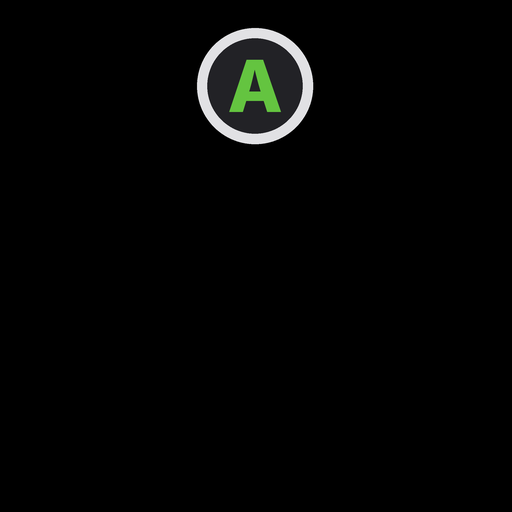
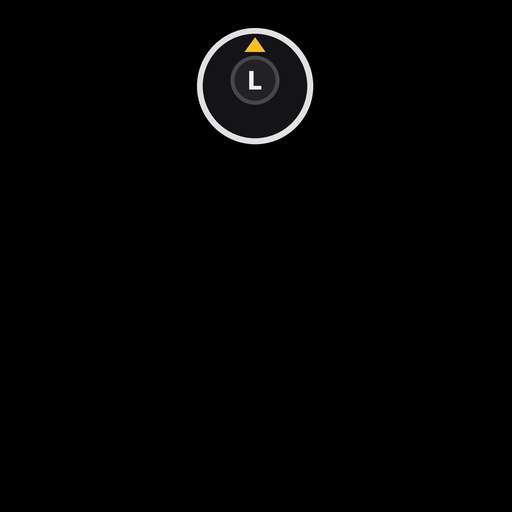
Excitebots: steady race audio, no Wii Remote how-to cards, stick motion prompts
- Audio catches up its whole backlog after busy frames and the output queue is held near its
  target, which fixes the crackle at 60 fps.
- The red bar, yellow bar, leg run and glide how-to cards are no longer queued before races.
- Bar releases, crash recovery and shakes are played with the left stick, and the prompt pack
  draws a left stick instead of the A button.

Claude-Session: https://claude.ai/code/session_018VRVMcjNQVgVxKRnKdEpiQ

Changed region(s): [[0.375, 0.0625, 0.625, 0.2812]]

diff --git a/tools/prompts/make_eb_pack.py b/tools/prompts/make_eb_pack.py
@@ -5,9 +5,9 @@ Excite Truck's (make_pack.py: plain shapes and the Inter typeface, no game artwo
 Each file replaces one texture of the US disc (RX3E01) and is named the way aurora's
 Dolphin-style texture replacement expects: tex1_<w>x<h>_<xxh64>_<fmt>.png.
 
-It replaces the Wii Remote pictures that ask for a motion with the A button, since A plays a
-remote swing on the pad: the crash prompt's shaking remote ("SHAKE!!!") and the bar prompt's
-pushed remote ("Push", grab and release a bar).
+It replaces the Wii Remote pictures that ask for a motion with the left stick, which plays the
+motion on the pad: the shaking remote (crash recovery, bar spin, dentures) becomes a stick pushed
+left and right, and the bar prompt's pushed remote ("Push", let go of a bar) a stick flicked up.
 
 It also redraws the round button icons Excitebots shares with Excite Truck (common.res, same
 hashes): Wii 2 becomes A (OK / accelerate), Wii 1 becomes B (back) and Wii A becomes B, since B
@@ -19,9 +19,32 @@ import os
 import sys
 
 sys.path.insert(0, os.path.dirname(os.path.abspath(__file__)))
-from make_pack import Canvas, circle_mask  # noqa: E402
+from make_pack import Canvas, circle_mask, FACE, RIM, WHITE, font, text_centre  # noqa: E402
 
 from PIL import Image  # noqa: E402
+
+
+def stick(c, cx, cy, r, dx, dy):
+    """A left stick in a disc of radius r: the well, the thumb cap pushed by (dx, dy) (-1..1) with
+    an L on it, and an arrow in the direction it is pushed."""
+    d, k = c.d, c.k
+    d.ellipse(c.box(cx - r, cy - r, cx + r, cy + r), fill=RIM)
+    w = r * 0.9
+    d.ellipse(c.box(cx - w, cy - w, cx + w, cy + w), fill=(20, 20, 22))
+    # The arrow, on the side the cap moves to.
+    a, t = r * 0.66, r * 0.18
+    ax, ay = cx + dx * a, cy + dy * a
+    px, py = -dy, dx
+    tip = (ax + dx * t, ay + dy * t)
+    pts = [tip, (ax - dx * t * 0.4 + px * t, ay - dy * t * 0.4 + py * t), (ax - dx * t * 0.4 - px * t, ay - dy * t * 0.4 - py * t)]
+    d.polygon([(x * k, y * k) for x, y in pts], fill=(246, 192, 32))
+    # The cap, moved toward the arrow but kept inside the well.
+    cr = r * 0.42
+    ccx, ccy = cx + dx * r * 0.1, cy + dy * r * 0.1
+    d.ellipse(c.box(ccx - cr, ccy - cr, ccx + cr, ccy + cr), fill=(70, 70, 76))
+    ir = cr * 0.84
+    d.ellipse(c.box(ccx - ir, ccy - ir, ccx + ir, ccy + ir), fill=FACE)
+    text_centre(d, ccx * k, ccy * k, "L", font("bold", cr * k * 1.05), WHITE)
 
 
 def build(scale):
@@ -38,22 +61,23 @@ def build(scale):
     out["tex1_64x64_08fba3554ebf64a8_0.png"] = circle_mask(64, 64, scale, 0.5, 0.5, 63.5, 63.5)
 
     # shakecont.art: a 256x256 colour texture (CMPR) holding the remote twice, at y 24-81 and
-    # 164-221 (x 31-231), cut out by a separate I4 mask. Both become an A button centred on the
-    # remote's place, the lower one pressed, with a disc mask to match.
+    # 164-221 (x 31-231), cut out by a separate I4 mask; the game swaps between the two to shake
+    # it. Both become the left stick centred on the remote's place, pushed left in one and right
+    # in the other, with a disc mask to match.
     c = Canvas(256, 256, scale, (0, 0, 0, 255))
     r = 29
-    for cy, pressed in ((52.5, False), (192.5, True)):
-        c.face(131 - r, cy - r, 131 + r, cy + r, "A", pressed=pressed)
+    for cy, dx in ((52.5, -1), (192.5, 1)):
+        stick(c, 131, cy, r, dx, 0)
     out["tex1_256x256_f2965209f9cff340_14.png"] = c.result()
     top = circle_mask(256, 256, scale, 131 - r, 52.5 - r, 131 + r, 52.5 + r)
     bottom = circle_mask(256, 256, scale, 131 - r, 192.5 - r, 131 + r, 192.5 + r)
     out["tex1_256x256_6f12f80be63edc3c_0.png"] = Image.composite(top, bottom, top.getchannel("A"))
 
     # The bar prompt ("Push"): a 256x256 colour texture of one remote seen side on, cut out by an
-    # I4 mask whose silhouette spans x 9-245, y 10-75. The A button goes in its middle.
+    # I4 mask whose silhouette spans x 9-245, y 10-75. A stick flicked up goes in its middle.
     cx, cy = 127.5, 43
     c = Canvas(256, 256, scale, (0, 0, 0, 255))
-    c.face(cx - r, cy - r, cx + r, cy + r, "A")
+    stick(c, cx, cy, r, 0, -1)
     out["tex1_256x256_ddf1c663d39c4ad2_14.png"] = c.result()
     out["tex1_256x256_aa8407612f74e6ba_0.png"] = circle_mask(256, 256, scale, cx - r, cy - r, cx + r, cy + r)
     return out

diff --git a/docs/excitebots-notes.md b/docs/excitebots-notes.md
@@ -73,11 +73,13 @@ differs from Mario Kart's map only their entry point (`align.py` checks the size
   ("SHAKE!!!") and letting go of a bar ("Push") use the flick. Grabbing a bar is automatic.
 - Pad layout in a race: RT/RB accelerate (Wii 2), X and LT/LB brake (Wii 1), A turbo, B the Wii
   A button (weapons), Y also Wii A, left stick steers and tilts. Menus: A OK, B or X back.
-- Motion prompts are spotted by their textures (`EbScreenTextures` in gx_texture.cpp). On "Push"
-  (let go of a bar) and on the crash meter (256x256 CMPR fcf8a1191fd23f9c), A (pad), C or Space
-  (keyboard) plays one swing per press: three reads with the acceleration thrown against gravity
-  at twice its strength. On the shaking remote without the crash meter (bar spin, dentures),
-  holding A rocks the remote left and right, like shaking the stick.
+- Motion prompts are spotted by their textures (`EbScreenTextures` in gx_texture.cpp) and played
+  with the left stick. On "Push" (let go of a bar) each flick of the stick (past 70% from under
+  30%) plays one swing: three reads with the acceleration thrown against gravity at twice its
+  strength. On the crash meter (256x256 CMPR fcf8a1191fd23f9c) each change of side while shaking
+  the stick left and right plays a swing. On the shaking remote without the crash meter (bar
+  spin, dentures) the stick rocks the remote as it steers. A (pad), C or Space (keyboard) still
+  work: a swing per press, or held on a bar spin, a rocking remote.
 - Any menu's Back / OK icons on screen (pause, Training cards, results) switch the pad to the
   menu layout, even while the race clock runs.
 - The "SHAKE!!!" text over the crash meter is cut to an empty string in guest memory as each race
@@ -85,13 +87,21 @@ differs from Mario Kart's map only their entry point (`align.py` checks the size
 - The Guide button opens the runtime's "Quit the game?" prompt (A exits, B cancels) instead of
   the Wii HOME menu. On the crash prompt the meter fills and the bot
   boosts out; on a bar it lets go. `WC_EB_AUTOSWING=N` swings every N reads for testing.
-- The remote pictures on the crash prompt (overlays.res `shakecont.art`) and the bar prompt
-  ("Push") are replaced by the A button (`tools/prompts/make_eb_pack.py`, installed to
+- The remote pictures on the shake prompt (overlays.res `shakecont.art`: crash, bar spin,
+  dentures) and the bar prompt ("Push") are replaced by the left stick, pushed left and right or
+  flicked up (`tools/prompts/make_eb_pack.py`, installed to
   `prompts/excitebots`; `[excitebots] xbox_prompts` or the F10 Controllers checkbox turns it off).
 - The round button icons shared with Excite Truck (common.res: Wii 1, 2, A, +, -) are redrawn as
   B, A, B, Menu and View.
-- The Wii Remote / Wii Wheel choice (new profile, Options) is confirmed automatically after
-  about a quarter second, recognised by its picture texture (256x128 CMPR c8c6e66dee7d90cc).
+- The "how to" cards after a race's intro screen (red bar, yellow bar, leg run, glide: Wii Remote
+  instructions) are not queued: 0x800113C0 picks them by comparing the event's `howto_guide`
+  against names at 0x80477511, 0x80477567, 0x804775CC and 0x80477623, which `EbFrameTick`
+  breaks once at boot (`DisableHowToCards`). Minigame how-to cards are left alone.
+- Audio at 60 FPS: the race leaves the guest thread little idle time, so the 3 ms audio blocks
+  arrived in bursts and the output queue sat near empty (about 5 ms), crackling. A tick now
+  catches up the whole backlog (up to 40 blocks) once 4 are due, the output controller corrects
+  by up to 1.5% (was 0.5%), and a dry queue is refilled with 80 ms of silence (was 40).
+  `WC_TRACE_AUDIOQ=1` prints the queue each second; `WC_AUDIO_DUMP=<file>` writes the raw output.
 - The three screens before the title (strap, ESRB, hold) are skipped: the boot step at
   `0x805A47F0` is set to 11 (done) each frame until the game reaches it (`EbFrameTick`).
 - `-direct_to_track:@mitch5_bar_challenge` (the yellow bar minigame) reaches a bar in about
@@ -161,7 +171,7 @@ Set them with `WC_EB_ARGS`.
 - Boots to "Press 2 to Start" at about 59 fps (container, software renderer), 16:9, creates its
   save file and reaches the profile screen.
 - Races load and draw (`WC_EB_ARGS=-direct_to_track:China`), with the HUD in 16:9.
-- Xbox layout in races and menus; A swings (checked on crash recovery and on bars).
+- Xbox layout in races and menus; the left stick plays the motion prompts.
 - Shader list recorded; local achievements in place.
-- Next: a stick prompt for the bar spin, the tutorial cards (Wii Remote pictures and text), play
-  through a normal race to see an achievement unlock.
+- Next: Training's lesson cards (Wii Remote pictures and text), play through a normal race to
+  see an achievement unlock.
